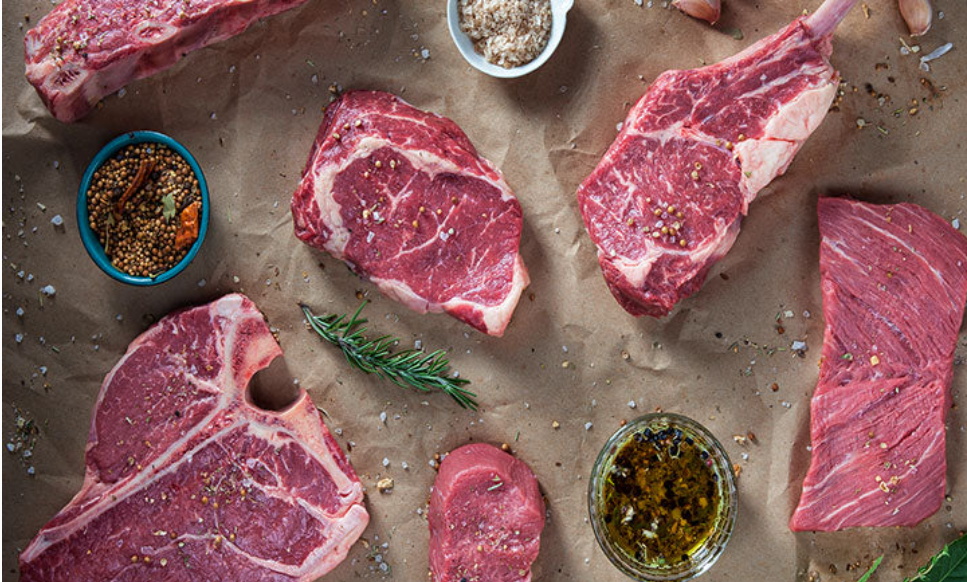
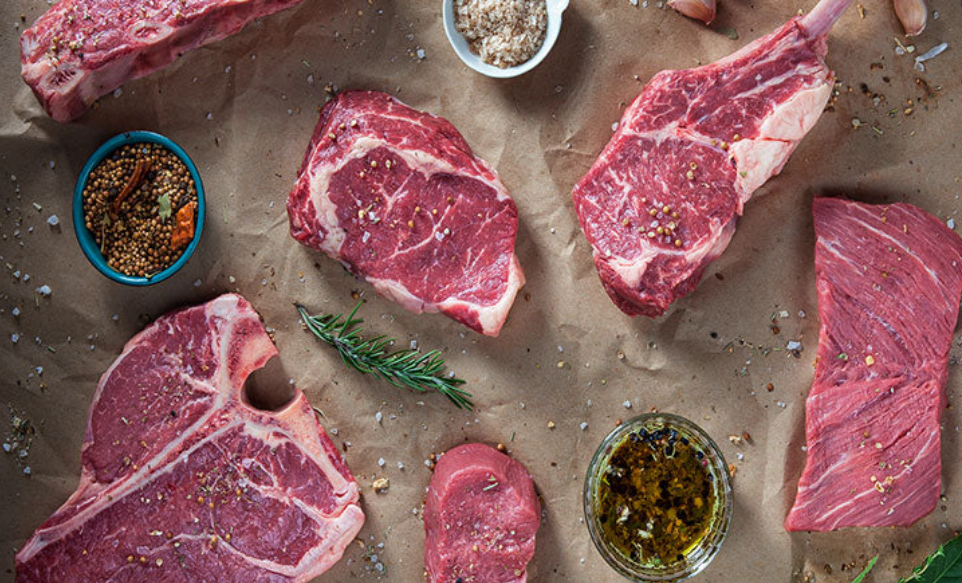
Se modificaron los precios en catalogo, produc-detail y index

diff --git a/public/index.html b/public/index.html
@@ -50,22 +50,22 @@
         <div class="carousel-container">
             <div class="carousel-slide active" style="background-image: url('/public/assets/img/imgCarusel/Carusel1.png?height=500&width=1200')">
                 <div class="slide-content">
-                    <h2>Premium Ribeye Steaks</h2>
-                    <p>Hand-selected, dry-aged for 28 days. Experience the ultimate in flavor and tenderness.</p>
+                    <h2>Filetes de Costilla Premium</h2>
+                    <p>Seleccionado a mano y madurado en seco durante 28 días. Experimente lo último en sabor y ternura.</p>
+                    <a href="#products" class="shop-now-btn">Compra ahora</a>
+                </div>
+            </div>
+            <div class="carousel-slide" style="background-image: url('/public/assets/img/imgCarusel/Carusel5.png?height=500&width=1200')">
+                <div class="slide-content">
+                    <h2>Carne Molida Fresca</h2>
+                    <p>Molido fresco a diario con cortes premium. Perfecto para hamburguesas, albóndigas y comidas familiares.</p>
                     <a href="#products" class="shop-now-btn">Compra ahora</a>
                 </div>
             </div>
             <div class="carousel-slide" style="background-image: url('/public/assets/img/imgCarusel/Carusel2.png?height=500&width=1200')">
                 <div class="slide-content">
-                    <h2>Fresh Ground Beef</h2>
-                    <p>Ground fresh daily from premium cuts. Perfect for burgers, meatballs, and family meals.</p>
-                    <a href="#products" class="shop-now-btn">Compra ahora</a>
-                </div>
-            </div>
-            <div class="carousel-slide" style="background-image: url('/public/assets/img/imgCarusel/Carusel3.png?height=500&width=1200')">
-                <div class="slide-content">
-                    <h2>Farm Fresh Poultry</h2>
-                    <p>Free-range chickens and turkeys from local farms. Hormone-free and naturally raised.</p>
+                    <h2>Aves de Corral Frescas de Granja</h2>
+                    <p>Pollos y pavos criados en libertad, de granjas locales. Sin hormonas y criados de forma natural.</p>
                     <a href="#products" class="shop-now-btn">Compra ahora</a>
                 </div>
             </div>
@@ -93,10 +93,10 @@
                         <h3 class="product-name">Bife de Paleta de Res</h3>
                         <p class="product-description">Carne de res Wagyu A5 premium, increíblemente tierna y marmolada</p>
                         <div class="price-container">
-                            <span class="current-price">$89.99/lb</span>
-                            <span class="original-price">$129.99/lb</span>
+                            <span class="current-price">$25.422,67/lb COP</span>
+                            <span class="original-price">$36.318,10/lb</span>
                         </div>
-                        <button class="add-to-cart-btn" onclick="addToCart('Wagyu Beef Tenderloin', 89.99)">Agregar al Carrito</button>
+                        <button class="add-to-cart-btn" onclick="addToCart('Wagyu Beef Tenderloin', 25.422,67)">Agregar al Carrito</button>
                     </div>
                 </div>
 
@@ -107,10 +107,10 @@
                         <h3 class="product-name">Cubos Magros de Res</h3>
                         <p class="product-description">Cubos Magros de Res, perfecto para ocasiones especiales</p>
                         <div class="price-container">
-                            <span class="current-price">$34.99/lb</span>
-                            <span class="original-price">$46.99/lb</span>
+                            <span class="current-price">$28.525,41/lb COP</span>
+                            <span class="original-price">$37.782,00/lb</span>
                         </div>
-                        <button class="add-to-cart-btn" onclick="addToCart('Lamb Rack', 34.99)">Agregar al Carrito</button>
+                        <button class="add-to-cart-btn" onclick="addToCart('Lamb Rack', 28.525,41)">Agregar al Carrito</button>
                     </div>
                 </div>
 
@@ -121,10 +121,10 @@
                         <h3 class="product-name">Asado de Tira de Res</h3>
                         <p class="product-description">Tiras tiernas de Res, para un buen asado los fines de semana.</p>
                         <div class="price-container">
-                            <span class="current-price">$12.99/lb</span>
-                            <span class="original-price">$16.99/lb</span>
+                            <span class="current-price">$13.592,00/lb COP</span>
+                            <span class="original-price">$16.990,00/lb</span>
                         </div>
-                        <button class="add-to-cart-btn" onclick="addToCart('Pork Belly', 12.99)">Agregar al Carrito</button>
+                        <button class="add-to-cart-btn" onclick="addToCart('Pork Belly', 13.592,00)">Agregar al Carrito</button>
                     </div>
                 </div>
 
@@ -135,23 +135,23 @@
                         <h3 class="product-name">Medallones de Lomo de Cuadril de Res</h3>
                         <p class="product-description">Medallones de Lomo de Res de Calidad, que permiten la creatividad del chef</p>
                         <div class="price-container">
-                            <span class="current-price">$24.99/lb</span>
-                            <span class="original-price">$29.99/lb</span>
+                            <span class="current-price">$28.033,00/lb COP</span>
+                            <span class="original-price">$32.980,00/lb</span>
                         </div>
-                        <button class="add-to-cart-btn" onclick="addToCart('Duck Breast', 24.99)">Add to Cart</button>
+                        <button class="add-to-cart-btn" onclick="addToCart('Duck Breast', 28.033,00)">Add to Cart</button>
                     </div>
                 </div>
                 <div class="offer-card product-item" data-name="duck breast">
-                    <div class="offer-badge">15% OFF</div>
+                    <div class="offer-badge">15% de descuento</div>
                     <div class="product-image"><img src="/public/assets/img/imgRes/Carne5.png" height="250px" width="350px"/></div>
                     <div class="product-info">
                         <h3 class="product-name">Carne Molida Magra de Res</h3>
                         <p class="product-description">Carne Molida de Primera Calidad, para preparar en diferentes platos como la bandeja paisa</p>
                         <div class="price-container">
-                            <span class="current-price">$24.99/lb</span>
-                            <span class="original-price">$29.99/lb</span>
+                            <span class="current-price">$19.941,00/lb COP</span>
+                            <span class="original-price">$23.460,00/lb</span>
                         </div>
-                        <button class="add-to-cart-btn" onclick="addToCart('Duck Breast', 24.99)">Add to Cart</button>
+                        <button class="add-to-cart-btn" onclick="addToCart('Duck Breast', 19.941,00)">Add to Cart</button>
                     </div>
                 </div>
                 <div class="offer-card product-item" data-name="duck breast">
@@ -161,10 +161,10 @@
                         <h3 class="product-name">Bife de Chorizo</h3>
                         <p class="product-description">Bife de Chorizo, para un delicioso plato casero </p>
                         <div class="price-container">
-                            <span class="current-price">$24.99/lb</span>
-                            <span class="original-price">$29.99/lb</span>
+                            <span class="current-price">$14.535,00 COP/lb</span>
+                            <span class="original-price">$17.100,00/lb</span>
                         </div>
-                        <button class="add-to-cart-btn" onclick="addToCart('Duck Breast', 24.99)">Agregar al Carrito</button>
+                        <button class="add-to-cart-btn" onclick="addToCart('Duck Breast', 14.535,00)">Agregar al Carrito</button>
                     </div>
                 </div>
             </div>
@@ -182,9 +182,9 @@
                         <h3 class="product-name">Panceta de cerdo con piel</h3>
                         <p class="product-description">Panceta de cerdo con piel, perfecta para un chicharrón crujiente.</p>
                         <div class="price-container">
-                            <span class="current-price">$28.99/lb</span>
+                            <span class="current-price">$11.990,00/lb COP</span>
                         </div>
-                        <button class="add-to-cart-btn" onclick="addToCart('Ribeye Steak', 28.99)">Agregar al Carrito</button>
+                        <button class="add-to-cart-btn" onclick="addToCart('Ribeye Steak', 11.990,00    )">Agregar al Carrito</button>
                     </div>
                 </div>
 
@@ -194,9 +194,9 @@
                         <h3 class="product-name">Carne Molida (80/20)</h3>
                         <p class="product-description">Carne molida fresca, perfecta para hamburguesas y albóndigas.</p>
                         <div class="price-container">
-                            <span class="current-price">$8.99/lb</span>
+                            <span class="current-price">$21.686,00/lb COP</span>
                         </div>
-                        <button class="add-to-cart-btn" onclick="addToCart('Ground Beef', 8.99)">Agregar al Carrito</button>
+                        <button class="add-to-cart-btn" onclick="addToCart('Ground Beef', 21.686,00)">Agregar al Carrito</button>
                     </div>
                 </div>
 
@@ -206,9 +206,9 @@
                         <h3 class="product-name">Piernas Entera con Piel</h3>
                         <p class="product-description">Piernas Enteras de Pollo con piel de gallinas criadas en libertad</p>
                         <div class="price-container">
-                            <span class="current-price">$12.99/lb</span>
+                            <span class="current-price">$7.490,00/lb COP</span>
                         </div>
-                        <button class="add-to-cart-btn" onclick="addToCart('Chicken Breast', 12.99)">Agregar al Carrito</button>
+                        <button class="add-to-cart-btn" onclick="addToCart('Chicken Breast', 7.490,00)">Agregar al Carrito</button>
                     </div>
                 </div>
 
@@ -218,9 +218,9 @@
                         <h3 class="product-name">Chuletas de Cerdo con Hueso</h3>
                         <p class="product-description">Chuletas de cerdo de corte grueso con excelente sabor y ternura.</p>
                         <div class="price-container">
-                            <span class="current-price">$14.99/lb</span>
+                            <span class="current-price">$4.245,00/lb COP</span>
                         </div>
-                        <button class="add-to-cart-btn" onclick="addToCart('Pork Chops', 14.99)">Agregar al Carrito</button>
+                        <button class="add-to-cart-btn" onclick="addToCart('Pork Chops', 4.245,00)">Agregar al Carrito</button>
                     </div>
                 </div>
 
@@ -230,9 +230,9 @@
                         <h3 class="product-name">Filete de Salmón del Atlántico</h3>
                         <p class="product-description">Salmón Fresco del Atlántico, rico en ácidos grasos omega-3</p>
                         <div class="price-container">
-                            <span class="current-price">$22.99/lb</span>
+                            <span class="current-price">$33.450,00/lb COP</span>
                         </div>
-                        <button class="add-to-cart-btn" onclick="addToCart('Salmon Fillet', 22.99)">Agregar al Carrito</button>
+                        <button class="add-to-cart-btn" onclick="addToCart('Salmon Fillet', 33.450,00)">Agregar al Carrito</button>
                     </div>
                 </div>
 
@@ -242,9 +242,9 @@
                         <h3 class="product-name">Pecho de Res</h3>
                         <p class="product-description">Perfecto para ahumar y cocinar a fuego lento, increíblemente sabroso.</p>
                         <div class="price-container">
-                            <span class="current-price">$18.99/lb</span>
+                            <span class="current-price">$17.100,00/lb COP</span>
                         </div>
-                        <button class="add-to-cart-btn" onclick="addToCart('Beef Brisket', 18.99)">Agregar al Carrito</button>
+                        <button class="add-to-cart-btn" onclick="addToCart('Beef Brisket', 17.100,00)">Agregar al Carrito</button>
                     </div>
                 </div>
             </div>

diff --git a/public/assets/js/catalog.js b/public/assets/js/catalog.js
@@ -5,7 +5,7 @@
                 id: 1,
                 name: "Filete de Costilla Premium",
                 description: "Perfección marmolada, añejada durante 28 días para una ternura máxima.",
-                price: 32.99,
+                price: 32990,
                 category: "beef",
                 image: "<img src= '/public/assets/img/imgRes/Filete_de_Costilla.png' height = '200px' width = '400px'/>"
             },
@@ -13,7 +13,7 @@
                 id: 2,
                 name: "Pechuga de pollo de corral",
                 description: "Filetes de pechuga de pollo orgánicos y sin hormonas.",
-                price: 12.99,
+                price: 12990,
                 category: "chicken",
                 image: "<img src= '/public/assets/img/imgPollo/Filete_de_Pechga.png' height = '200px' width = '400px'/>"
             },
@@ -21,7 +21,7 @@
                 id: 3,
                 name: "Salmón Salvaje Atlántico ",
                 description: "Filetes de salmón recién capturados y de origen sostenible.",
-                price: 24.99,
+                price: 33450,
                 category: "fish",
                 image: "<img src= '/public/assets/img/imgPescado/filete_de_trucha.png' height = '200px' width = '400px'/>"
             },
@@ -29,7 +29,7 @@
                 id: 4,
                 name: "Chuletas de Cerdo Tradicionales",
                 description: "Chuletas de cerdo de corte grueso y con hueso de razas tradicionales.",
-                price: 18.99,
+                price: 18990,
                 category: "pork",
                 image: "<img src= '/public/assets/img/imgCerdo/Chuleta_Tradicional.png' height = '200px' width = '400px'/>"
             },
@@ -37,7 +37,7 @@
                 id: 5,
                 name: "Carne molida de Wagyu",
                 description: "Carne molida de primera calidad de auténtico ganado Wagyu.",
-                price: 28.99,
+                price: 28990,
                 category: "beef",
                 image: "<img src= '/public/assets/img/imgRes/Carne5.png' height = '200px' width = '400px'/>"
             },
@@ -45,7 +45,7 @@
                 id: 6,
                 name: "Pechuga De Pavo Orgánica",
                 description: "Pechuga de pavo orgánica criada en granja, perfecta para asar.",
-                price: 16.99,
+                price: 16990,
                 category: "chicken",
                 image: "<img src= '/public/assets/img/imgPollo/Pechga_de_Pavo.png' height = '200px' width = '400px'/>"
             },
@@ -53,7 +53,7 @@
                 id: 7,
                 name: "Filetes de Atún Fresco",
                 description: "Filetes de aleta de atún amarilla de calidad para sushi.",
-                price: 29.99,
+                price: 29990,
                 category: "fish",
                 image: "<img src= '/public/assets/img/imgPescado/Filete_de_Atun.png' height = '200px' width = '400px'/>"
             },
@@ -61,7 +61,7 @@
                 id: 8,
                 name: "Filete Envuelto en Tocino",
                 description: "Tierno filete mignon envuelto en tocino de primera calidad.",
-                price: 42.99,
+                price: 42990,
                 category: "beef",
                 image: "<img src= '/public/assets/img/imgRes/Filete_envuelto_tocino.png' height = '200px' width = '400px'/>"
             },
@@ -69,7 +69,7 @@
                 id: 9,
                 name: "Costillas de Cerdo a la Barbacoa",
                 description: "Costillas de cerdo al estilo San Luis, perfectas para asar a la parrilla.",
-                price: 22.99,
+                price: 22990,
                 category: "pork",
                 image: "<img src= '/public/assets/img/imgCerdo/Costillas_a_La_Barbacoa.png' height = '200px' width = '400px'/>"
             },
@@ -77,7 +77,7 @@
                 id: 10,
                 name: "Colas de Langosta",
                 description: "Colas de langosta de agua fría, congeladas rápidamente para mayor frescura.",
-                price: 34.99,
+                price: 34990,
                 category: "fish",
                 image: "<img src= '/public/assets/img/imgPescado/Cola_de_Langosta.png' height = '200px' width = '400px'/>"
             }

diff --git a/public/product-detail.html b/public/product-detail.html
@@ -56,7 +56,7 @@
                     <p class="product-description">
                         Nuestro filete de chuletón premium se selecciona a mano del mejor ganado y se madura a la perfección durante 28 días. Este corte marmoleado ofrece una ternura excepcional y un sabor rico y mantecoso que se derrite en la boca. Perfecto para asar a la parrilla, sellar en sartén o para ocasiones especiales.
                     </p>
-                    <div class="product-price">$32.99/lb</div>
+                    <div class="product-price">$32990/lb</div>
                     
                     <div class="quantity-section">
                         <label for="quantity">Cantidad (lbs):</label>
@@ -68,7 +68,7 @@
                     </div>
                     
                     <button class="add-to-cart-btn" onclick="addToCart()">
-                        Agregar al Carrito - $<span id="total-price">32.99</span>
+                        Agregar al Carrito - $<span id="total-price">32990</span>
                     </button>
                 </div>
             </section>
@@ -80,17 +80,17 @@
                     <div class="product-card">
                         <div class="product-card-image"><img src="/public/assets/img/imgRes/Franja_de_Nueva_York.png" height="200px" width="350px"/></div>
                         <h3>Franja de Nueva York</h3>
-                        <div class="product-card-price">$28.99/lb</div>
+                        <div class="product-card-price">$28990/lb</div>
                     </div>
                     <div class="product-card">
                         <div class="product-card-image"><img src="/public/assets/img/imgRes/Filet_Mignon.png" height="200px" width="350px"/></div>
                         <h3>Filete Mignon</h3>
-                        <div class="product-card-price">$45.99/lb</div>
+                        <div class="product-card-price">$45990/lb</div>
                     </div>
                     <div class="product-card">
                         <div class="product-card-image"><img src="/public/assets/img/imgRes/Filete_T.png" height="200px" width="350px"/></div>
                         <h3>Filete T-Bone</h3>
-                        <div class="product-card-price">$24.99/lb</div>
+                        <div class="product-card-price">$24990/lb</div>
                     </div>
                 </div>
             </section>

diff --git a/public/assets/js/product-detail.js b/public/assets/js/product-detail.js
@@ -1,6 +1,6 @@
         const quantityInput = document.getElementById('quantity');
         const totalPriceSpan = document.getElementById('total-price');
-        const basePrice = 32.99;
+        const basePrice = 32990;
 
         function updateTotalPrice() {
             const quantity = parseInt(quantityInput.value);
